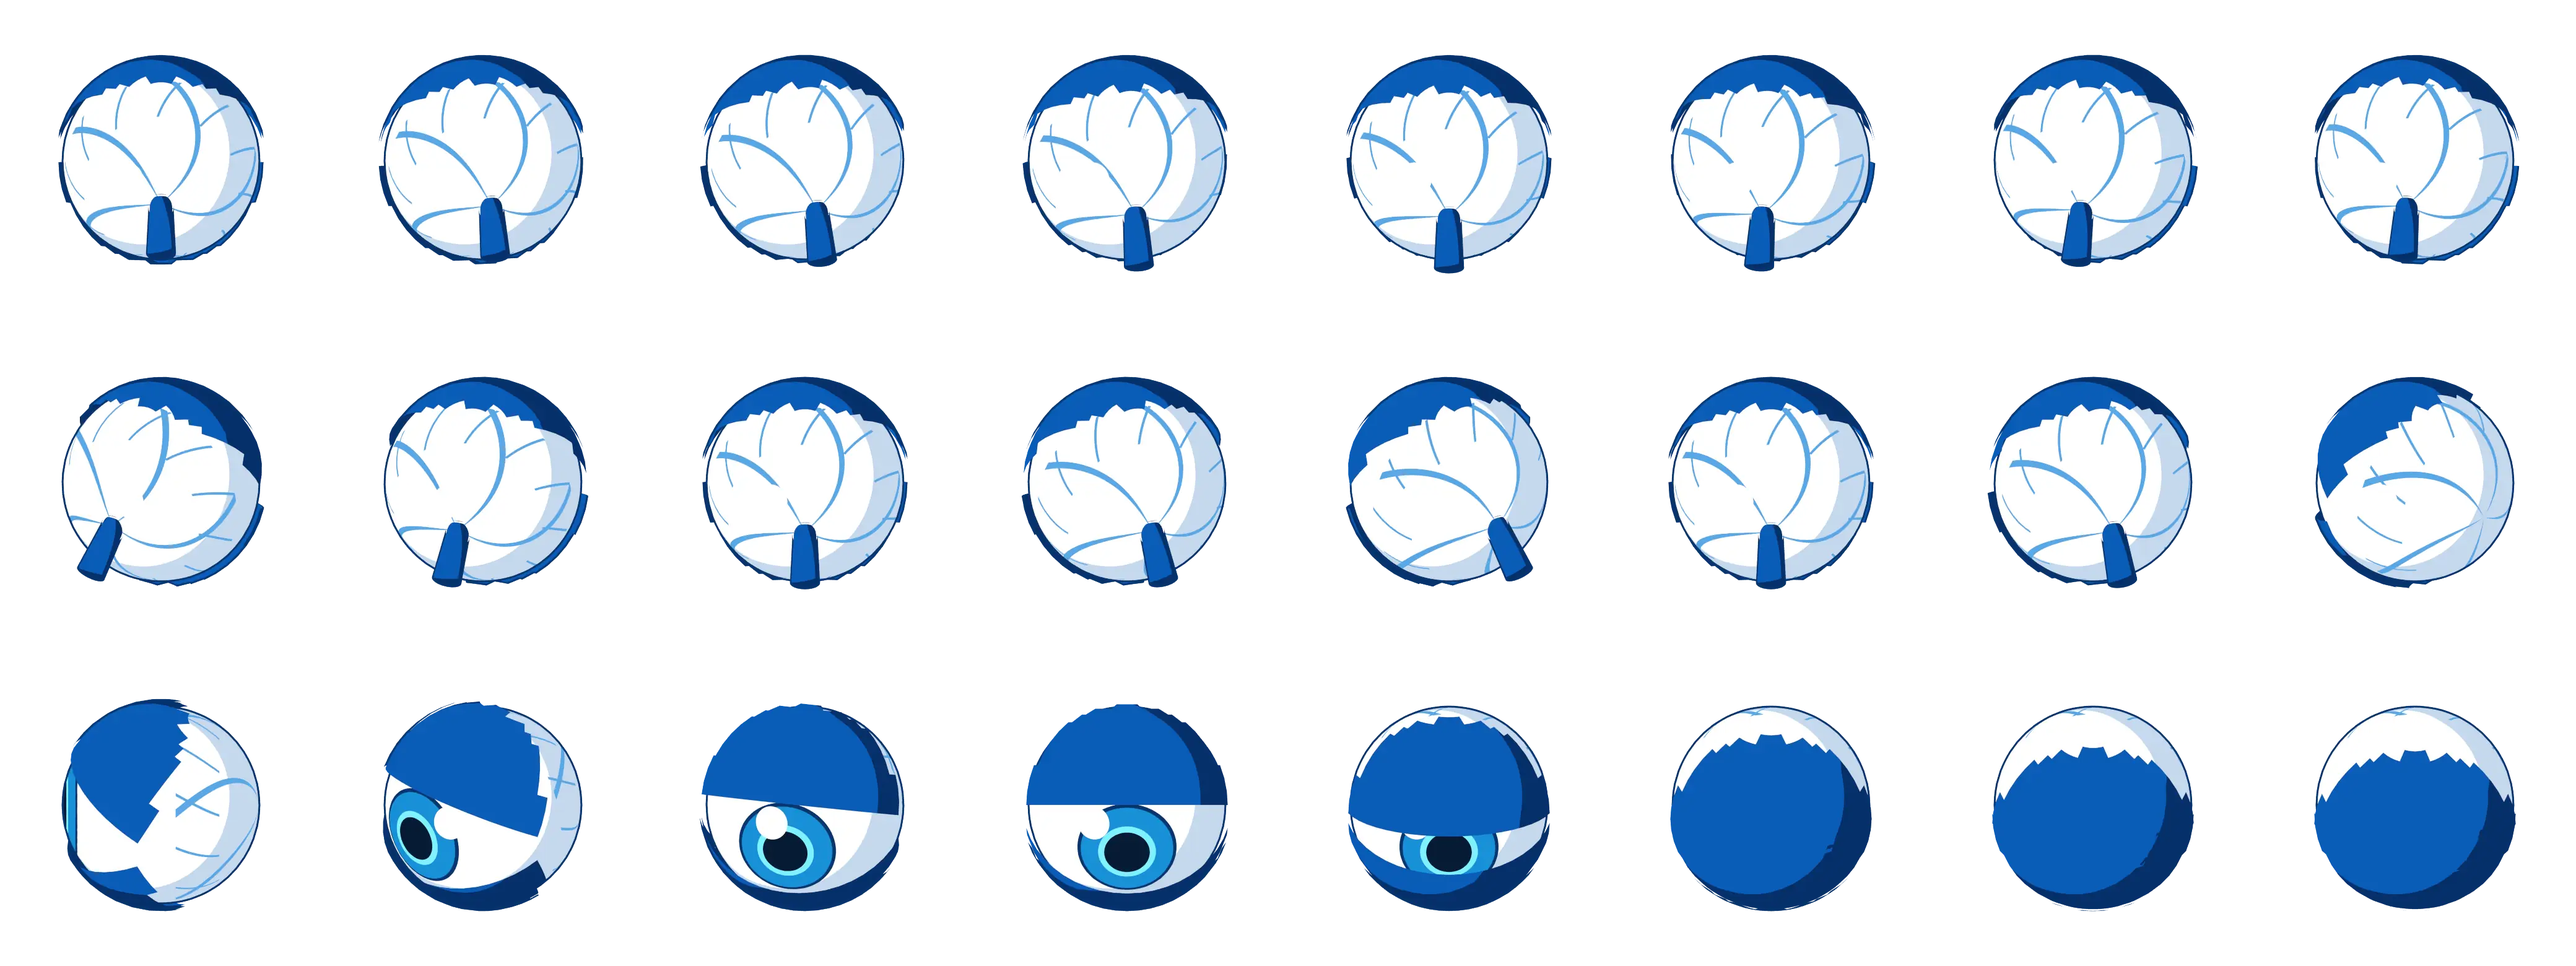
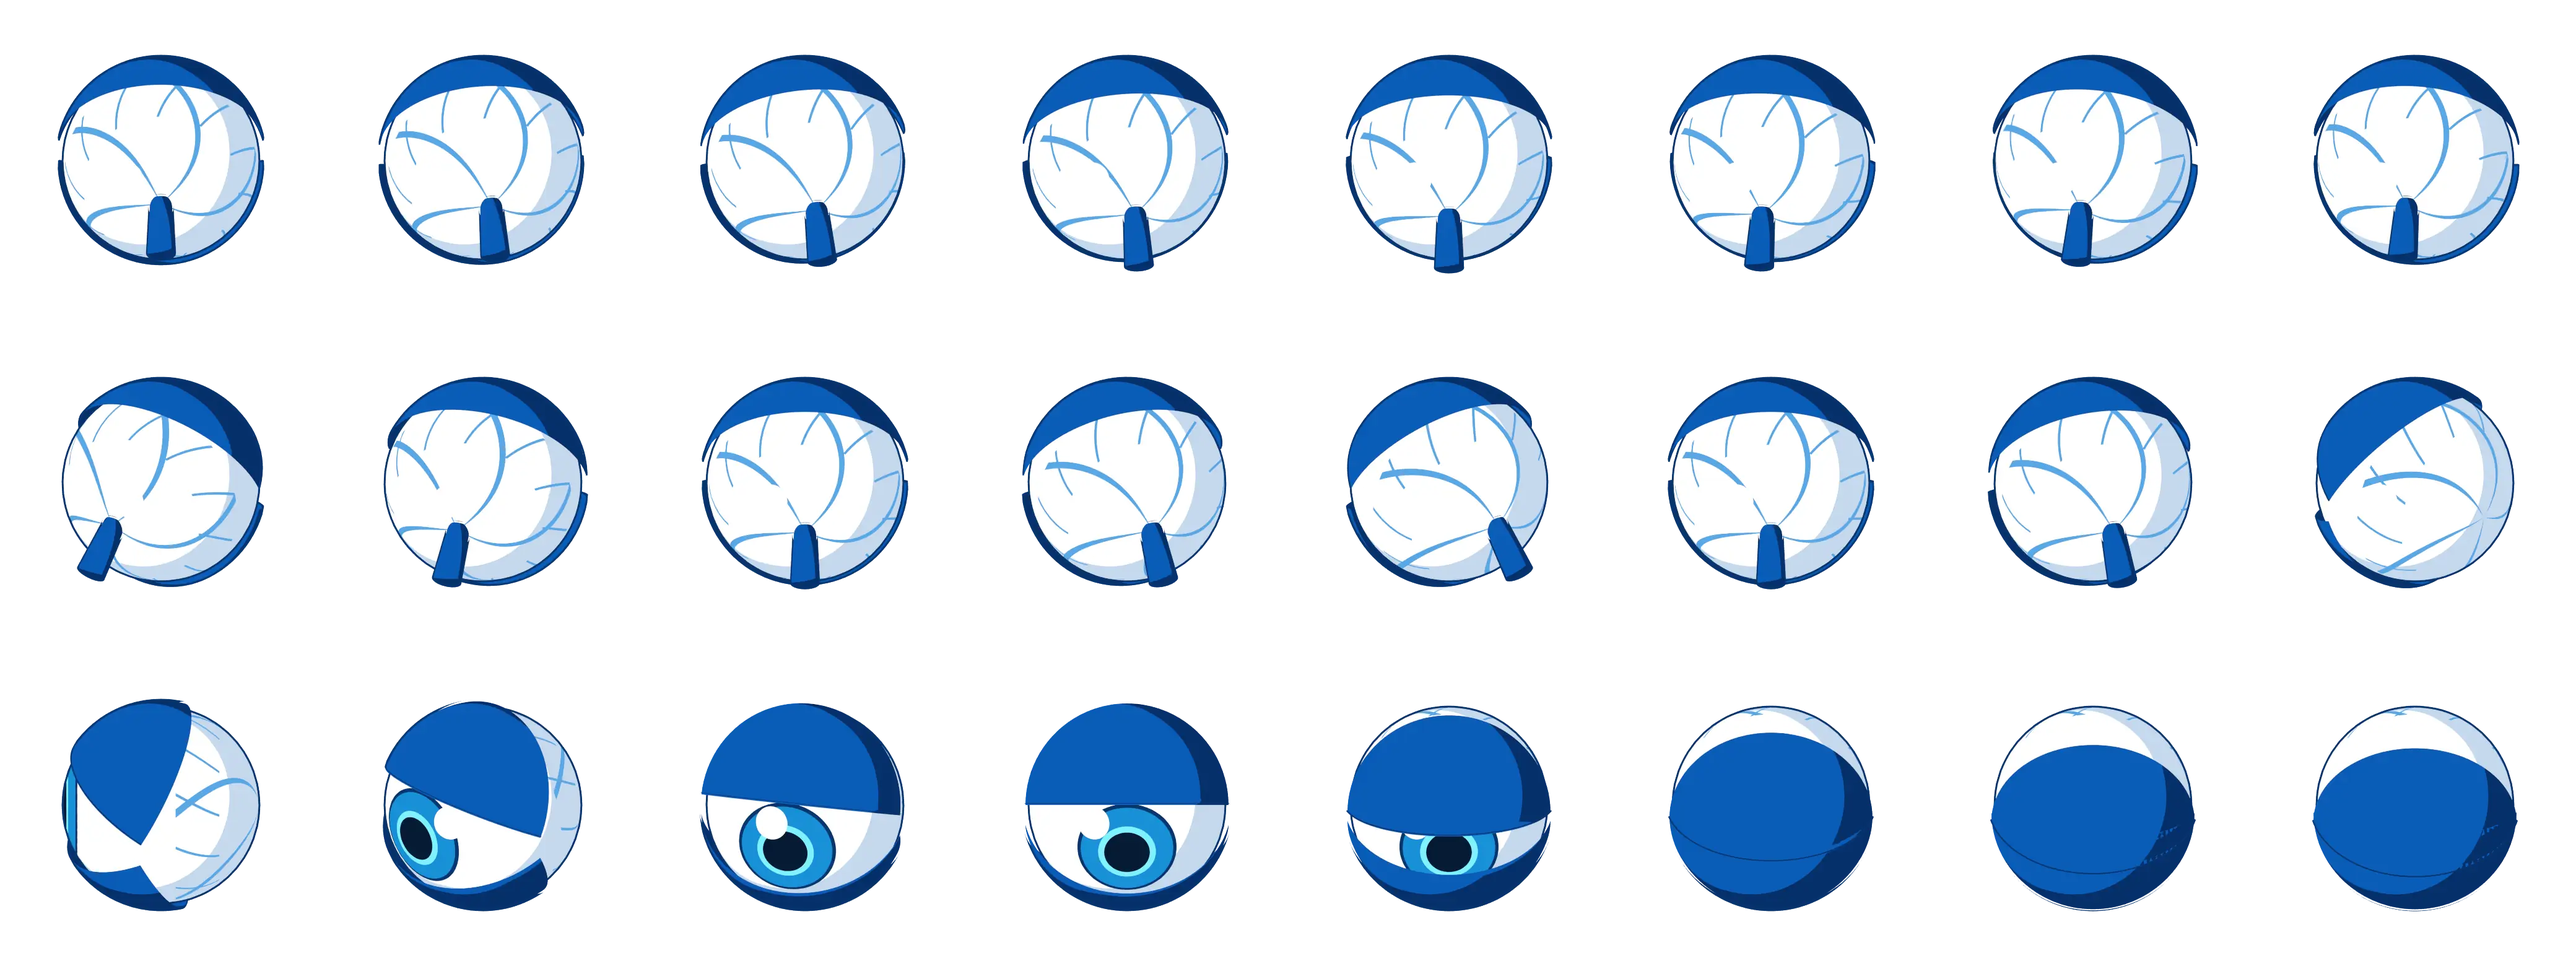
KITTY_RUN.EXE: fixes from the final review
The eye's lids are cut along clean planes, so seen from behind the ball keeps one smooth
lid arc; the ride's window is drawn in two-pixel slices with one frame along its outline,
stays over the road on a phone, and shows its window's first real paragraph; paw dust
fades before it reaches the camera and scales in whole pixels; pickup bursts stay within
the chip; shields take the OS's LCD ink; the result card's last line is LCD-sub sized;
phone titles end in an ellipsis; the glyphs' screen-reader labels follow the run.

diff --git a/js/run.js b/js/run.js
@@ -196,7 +196,7 @@ function blocks(t) {
 function hurt(t) {
   if (nowAt < safeTo || caughtAt) return;
   t.gone = nowAt;
-  if (active('shield')) { powers.shield = 0; safeTo = nowAt + SAFE; ring(1.6); spark('burst', U(x), dist, y + TALL / 2, 1.5); return; }   // the bubble takes it, and pops without a sound, like her bubbles
+  if (active('shield')) { powers.shield = 0; safeTo = nowAt + SAFE; ring(1.6); spark('burst', U(x), dist, y + TALL / 2, .9); return; }   // the bubble takes it, and pops without a sound, like her bubbles
   if (nowAt - hitAt < AGAIN) return caught();
   hitAt = nowAt; safeTo = nowAt + SAFE; cleanFrom = sec;
   spark('hit', U(t.lane), dist + .02, .7, 1.2);
@@ -252,7 +252,7 @@ const ring = (size) => fx.push({ at: nowAt, life: 420, size });
 
 // Pixel effects (pixelfx, built by _dev/run_fx in each OS's own colours): dust from her paws at every stride, a bigger puff
 // when she lands, a spark when something hits her, a burst for a power-up and for the shield. Their pixels are the
-// LCD's. Each sits on the road where it happened and falls behind as she runs on. None under reduced motion.
+// LCD's, scaled in whole pixels. Each sits on the road where it happened and fades as it falls behind. None under reduced motion.
 let FX = null;
 const fxSheets = {}, sparks = [];
 fetch('assets/run/fx.json').then((r) => r.json()).then((m) => { FX = m; }).catch(() => {});
@@ -271,7 +271,9 @@ function drawSparks(g, f, front) {
     const s = sparks[i], e = FX.effects[s.kind], n = Math.floor((nowAt - s.at) / 1000 * e.fps);
     if (n >= e.frames) { sparks.splice(i, 1); continue; }
     if ((s.kind === 'hit' || s.kind === 'burst') !== front) continue;
-    const [px, py, k] = f.at(s.u, Math.max(s.z - dist, f.stop)), unit = f.lane * k / 40 * s.size;   // one effect pixel, in canvas pixels
+    const r = s.z - dist, [px, py, k] = f.at(s.u, Math.max(r, f.stop)), unit = Math.max(1, Math.round(f.lane * k / 40 * s.size));   // one effect pixel: a whole number of canvas pixels
+    g.globalAlpha = clamp(1 + r / .12);   // gone a third of the way back to the camera
+    if (!g.globalAlpha) continue;
     g.drawImage(img, (n % e.cols) * e.w, e.y + Math.floor(n / e.cols) * e.h, e.w, e.h, px - e.pivot[0] * unit, py - s.h * f.lane * k - e.pivot[1] * unit, e.w * unit, e.h * unit);
   }
   g.restore();
@@ -357,7 +359,7 @@ function near0(t) {   // the song's note nearest this moment, so the pops play a
 }
 function power(p) {
   p.got = nowAt; tally.power++;
-  spark('burst', U(p.lane), p.z, p.h - .2, 1.1);
+  spark('burst', U(p.lane), p.z, p.h - .2, .6);   // within the chip's own size
   powers[p.kind] = nowAt + LAST[p.kind] * 1000;
   if (p.kind === 'ride') { tally.ride++; rideName = pick(WINDOWS); air = null; slideTo = 0; }
   if (p.kind === 'zoom') safeTo = Math.max(safeTo, powers.zoom + 600);
@@ -505,7 +507,7 @@ function kitty(g, f) {
     const s = f.lane * TALL * .78 * (calm ? 1 : 1 + .03 * Math.sin(nowAt / 150)), cy = py - y * f.lane - f.lane * TALL * .5, fade = Math.min(1, (powers.shield - nowAt) / 1500);
     g.save(); g.globalAlpha = .8 * fade;
     if (f.id === 'aero') g.drawImage(soapOnce(), px - s, cy - s, s * 2, s * 2);
-    else { const c = WORLDS[f.id].hands[0]; g.shadowColor = c[1]; g.shadowBlur = 12 * f.d; g.lineWidth = 3 * f.d; g.strokeStyle = c[1]; g.beginPath(); g.ellipse(px, cy, s * .9, s, 0, 0, TAU); g.stroke(); g.lineWidth = f.d; g.strokeStyle = c[0]; g.beginPath(); g.ellipse(px, cy, s * .82, s * .92, 0, -2.4, -1.4); g.stroke(); }
+    else if (lcd) { g.shadowColor = lcd.glow; g.shadowBlur = 12 * f.d; g.lineWidth = 3 * f.d; g.strokeStyle = lcd.fg; g.beginPath(); g.ellipse(px, cy, s * .9, s, 0, 0, TAU); g.stroke(); g.lineWidth = f.d; g.globalAlpha *= .6; g.beginPath(); g.ellipse(px, cy, s * .82, s * .92, 0, -2.4, -1.4); g.stroke(); }   // the LCD's own ink: Baroque's gold, Vaporwave's pink
     g.restore();
   }
   if (active('magnet')) {   // and the OS's own bubble wand, beside her
@@ -535,7 +537,9 @@ function paneArt(id) {
   else if (stops.length > 2) { const p = g.createLinearGradient(0, 0, 0, bar); stops.slice(0, 3).forEach((col, i) => p.addColorStop([0, .47, .5][i], col)); g.fillStyle = p; g.fillRect(0, 0, W, bar); }
   g.fillStyle = v('--bar-edge'); g.fillRect(0, bar - 2, W, 2);
   g.fillStyle = v('--sheet'); g.fillRect(12, bar + 8, W - 24, H - bar - 20);   // the page inside: that window's own heading and words
-  const win = document.querySelector(`[data-file="${rideName}"]`), head = $(win?.getAttribute('aria-labelledby'))?.textContent.trim() || '', words = (win?.querySelector('p')?.textContent || '').trim().split(/\s+/);
+  const win = document.querySelector(`[data-file="${rideName}"]`), head = $(win?.getAttribute('aria-labelledby'))?.textContent.trim() || '';
+  const para = [...(win?.querySelectorAll('p') || [])].find((el) => !el.hidden && !el.classList.contains('meta') && el.textContent.trim());   // its first real paragraph
+  const words = (para?.textContent || '').replace(/[^.]*JavaScript[^.]*\.?/g, '').trim().split(/\s+/).filter(Boolean);   // not the no-JavaScript note
   g.textBaseline = 'top'; g.textAlign = 'left';
   g.fillStyle = v('--heading'); g.font = `700 38px ${v('--display')}`; g.fillText(head, 30, bar + 24, W - 60);
   g.fillStyle = v('--ink-2'); g.font = `22px ${v('--body')}`;
@@ -549,15 +553,16 @@ function paneArt(id) {
   return c;
 }
 function carpet(g, f, h, slide, alpha) {   // tilted up toward the far end, as a carpet lifts, so its face reads
-  const img = paneArt(f.id), u0 = U(x) - .66, u1 = U(x) + .66, far = .3 + slide, near = -.05 + slide, hf = h + .7, hn = h - .4;
-  const N = Math.max(24, Math.min(96, Math.round(f.lane * 1.4 / f.d / 3)));   // a slice every few pixels, so the sides run straight
+  const mid = clamp(U(x), .66, 3.34), img = paneArt(f.id), u0 = mid - .66, u1 = mid + .66, far = .3 + slide, near = -.05 + slide, hf = h + .7, hn = h - .4;   // kept over the road
   g.save(); g.globalAlpha = alpha;
   if (!f.lite) {   // a soft shadow on the road below
     const [sx, sy, sk] = f.at(U(x), .08 + slide), rx = f.lane * .9 * sk, sh = g.createRadialGradient(sx, sy, 0, sx, sy, rx);
     sh.addColorStop(0, 'rgba(0,0,0,.22)'); sh.addColorStop(1, 'rgba(0,0,0,0)');
     g.save(); g.translate(sx, sy); g.scale(1, .3); g.translate(-sx, -sy); g.fillStyle = sh; g.fillRect(sx - rx, sy - rx, rx * 2, rx * 2); g.restore();
   }
+  let N = 1;
   const edge = (u, i) => { const r = far + (near - far) * i / N, p = f.at(u, r); return [p[0], p[1] - (hf + (hn - hf) * i / N) * f.lane * p[2]]; };
+  N = clamp(Math.ceil((edge(u0, 1)[1] - edge(u0, 0)[1]) / (2 * f.d)), 24, 240);   // a slice every two pixels, so the words don't shear
   g.save(); g.beginPath();   // its outline, so the slices below meet in clean edges
   for (let i = 0; i <= N; i++) g.lineTo(...edge(u0, i));
   for (let i = N; i >= 0; i--) g.lineTo(...edge(u1, i));
@@ -567,6 +572,8 @@ function carpet(g, f, h, slide, alpha) {   // tilted up toward the far end, as a
     g.drawImage(img, 0, img.height * i / N, img.width, img.height / N, bx, ay, cx - bx, by - ay + 1);
   }
   g.restore();
+  g.beginPath(); for (let i = 0; i <= N; i++) g.lineTo(...edge(u0, i)); for (let i = N; i >= 0; i--) g.lineTo(...edge(u1, i)); g.closePath();   // its frame, drawn once along the outline
+  g.lineWidth = Math.max(1, 1.5 * f.d); g.strokeStyle = getComputedStyle(document.documentElement).getPropertyValue('--putty-4'); g.stroke();
   g.restore();
 }
 

diff --git a/index.html b/index.html
@@ -18,8 +18,8 @@
 <link rel="apple-touch-icon" href="assets/icons/eye-180.png">
 <link rel="preload" href="assets/fonts/baloo-da-2-var-latin.woff2" as="font" type="font/woff2" crossorigin>
 <link rel="preload" href="assets/fonts/hind-siliguri-400-latin.woff2" as="font" type="font/woff2" crossorigin>
-<script type="importmap">{"imports": {"./js/analytics.js": "./js/analytics.js?v=e2256c35", "./js/audio.js": "./js/audio.js?v=c8f3778f", "./js/beats.js": "./js/beats.js?v=4bc3188d", "./js/beatworlds.js": "./js/beatworlds.js?v=e89e5c90", "./js/bringback.js": "./js/bringback.js?v=81b45ed1", "./js/bubblepop.js": "./js/bubblepop.js?v=1f943c72", "./js/bubbles.js": "./js/bubbles.js?v=5b5caee5", "./js/clock.js": "./js/clock.js?v=0856070b", "./js/fx.js": "./js/fx.js?v=f9c8771a", "./js/kitty.js": "./js/kitty.js?v=d1563961", "./js/main.js": "./js/main.js?v=ee03c92a", "./js/observe.js": "./js/observe.js?v=daaa1275", "./js/paint.js": "./js/paint.js?v=0e55c193", "./js/panopticon.js": "./js/panopticon.js?v=a65b4065", "./js/run.js": "./js/run.js?v=2472e97c", "./js/stats.js": "./js/stats.js?v=1988723d", "./js/themes.js": "./js/themes.js?v=15cefb94", "./js/tour.js": "./js/tour.js?v=14ec0b47"}}</script>
-<link rel="stylesheet" href="css/site.css?v=38b65abf">
+<script type="importmap">{"imports": {"./js/analytics.js": "./js/analytics.js?v=e2256c35", "./js/audio.js": "./js/audio.js?v=c8f3778f", "./js/beats.js": "./js/beats.js?v=6be89cb7", "./js/beatworlds.js": "./js/beatworlds.js?v=e89e5c90", "./js/bringback.js": "./js/bringback.js?v=81b45ed1", "./js/bubblepop.js": "./js/bubblepop.js?v=1f943c72", "./js/bubbles.js": "./js/bubbles.js?v=5b5caee5", "./js/clock.js": "./js/clock.js?v=0856070b", "./js/fx.js": "./js/fx.js?v=f9c8771a", "./js/kitty.js": "./js/kitty.js?v=d1563961", "./js/main.js": "./js/main.js?v=ee03c92a", "./js/observe.js": "./js/observe.js?v=daaa1275", "./js/paint.js": "./js/paint.js?v=0e55c193", "./js/panopticon.js": "./js/panopticon.js?v=a65b4065", "./js/run.js": "./js/run.js?v=135bfa60", "./js/stats.js": "./js/stats.js?v=1988723d", "./js/themes.js": "./js/themes.js?v=15cefb94", "./js/tour.js": "./js/tour.js?v=14ec0b47"}}</script>
+<link rel="stylesheet" href="css/site.css?v=a7e0e856">
 <script>
   // Decide before first paint, so the boot screen never flashes for returning visitors.
   (function () {

diff --git a/css/site.css b/css/site.css
@@ -225,6 +225,7 @@ html, body { transition: none; }
 .mp__full svg { filter: drop-shadow(0 0 3px var(--lcd-glow)); }
 .is-beat .mp__run { display: none; }   /* KITTY_RUN.EXE starts from full screen only */
 .arcade .mp__title { text-overflow: ellipsis; }
+.arcade .mp__title span { display: inline; padding-left: 0; animation: none; }   /* the ticker's span would stop the ellipsis */
 .arcade:has(#mp-run[aria-pressed=true]) #mp-time, .arcade:has(#mp-run[aria-pressed=true]) .mp__screen::after { display: none; }   /* on the run the top bar shows the song's progress; no sheen over the shut lids */
 .arcade .mp__result :is(.pill, .gel) { min-height: 44px; font-size: 16px; }
 .mp__full[aria-pressed=true] { color: #ffe14d; }
@@ -248,6 +249,7 @@ html, body { transition: none; }
 .run__goals svg { flex: none; width: 13px; height: 13px; color: #ffe14d; }
 .run__goals .is-off { opacity: .22; }
 .run__goals .is-done { color: var(--lcd-fg); }
+.mp__result .run__next, .arcade .mp__result .run__next { color: var(--lcd-sub); font-size: 16px; }
 /* Full screen: the player's screen leaves its window and fills the display, above the taskbar. The board tilts back into a road. */
 .arcade { position: fixed; inset: 0; z-index: 9500; }
 .arcade .mp__screen { position: absolute; inset: 0; padding: 0; border: 0; border-radius: 0; box-shadow: none; -webkit-user-select: none; user-select: none; }

diff --git a/js/beats.js b/js/beats.js
@@ -562,7 +562,8 @@ function unrace(again) {
 kit.addEventListener('click', () => (running ? unrace(true) : race()));
 // On the run the arrow keys and W steer her, so the glyphs say what they do there.
 const TITLES = { 'mp-back': ['Previous level (left arrow)', 'Previous song'], 'mp-skip': ['Next level (right arrow)', 'Next song'], 'mp-watch': ['Just watch (W)', 'Just watch the song'] };
-function retitle(run) { for (const [id, t] of Object.entries(TITLES)) $(id).title = t[+run]; }
+const ARIA = {};
+function retitle(run) { for (const [id, t] of Object.entries(TITLES)) { const el = $(id); ARIA[id] ??= el.getAttribute('aria-label'); el.title = t[+run]; el.setAttribute('aria-label', run ? t[1] : ARIA[id]); } }
 
 /* ---------- Coming and going ---------- */
 // The screen grows or shrinks in one move. On a desktop the window's bottom edge stays put and its height never jumps:

diff --git a/_dev/kitty/blender/eyeball.py b/_dev/kitty/blender/eyeball.py
@@ -88,8 +88,10 @@ def cap(name, sign, mats):
     """A lid: a shell a little bigger than the ball over its front, above (sign 1) or below (-1) its middle. Only the
     front: from behind, the back of the ball shows bare, as a real eye's does."""
     bm = bmesh.new()
-    bmesh.ops.create_uvsphere(bm, u_segments=48, v_segments=24, radius=LID)
-    bmesh.ops.delete(bm, geom=[v for v in bm.verts if v.co.z * sign < -1e-4 or v.co.x < 0.12], context='VERTS')   # only over its front: from behind, a thin rim
+    bmesh.ops.create_uvsphere(bm, u_segments=96, v_segments=48, radius=LID)
+    for co, no in (((0, 0, 0), (0, 0, -sign)), ((0.12, 0, 0), (-1, 0, 0))):   # cut along clean planes, so its edges are smooth arcs
+        geom = bm.verts[:] + bm.edges[:] + bm.faces[:]
+        bmesh.ops.bisect_plane(bm, geom=geom, plane_co=co, plane_no=no, clear_outer=True)
     return mesh(name, bm, mats)
 
 

diff --git a/DESIGN.md b/DESIGN.md
@@ -107,7 +107,7 @@ Bubbles score 10 each, in that OS's own bubble style (`spritesFor` in `js/fx.js`
 
 The little effects are pixel art, the LCD's language (pixelfx, built in each OS's own colours by `_dev/run_fx/build.py` into `assets/run/fx-<os>.png`): dust from her paws at every stride, a bigger puff when she lands, a spark when something hits her, and a burst for a power-up and the shield popping. Each stays on the road where it happened and falls behind as she runs on. Her moves have sounds of their own, one set per OS (lane, jump, duck, power-up, zoomies, stumble, caught), composed and bounced in SoundCraft with that OS's instrument (glass bells, a detuned tape synth, a harpsichord, a chip square, a soft pluck in a Bhairav-like scale, the avenue's square and saw, with a cab's horn and the subway doors' two notes) and sent through purpl (`_dev/run_sfx.py`, `assets/run/sfx-<os>.mp3`), played through the site's sound bus, so mute holds.
 
-Power-ups come round in rotation every 11 to 17 seconds, each a chip of that OS's LCD with its glyph lit on it, the same glyph the HUD shows while it lasts; its name rises over her, like the play-along's PERFECT: bubble shield (one hit or 20 s; in Aero one of the site's bubbles, elsewhere a ring of that world's light; it pops without a sound), bubble wand (that OS's wand cursor; bubbles drift to her for 10 s), window ride (8 s: one of her site's windows, in that OS's chrome, swoops in from behind and lies under her like a carpet, tilted toward the camera and laid in the road's own perspective with its shadow on the road; she sits on it above every wall, with bubbles in the sky), pounce (every jump clears walls for 10 s), bubbles x2 (15 s) and zoomies (5 s, faster, nothing can hit her, the eye falls back).
+Power-ups come round in rotation every 11 to 17 seconds, each a chip of that OS's LCD with its glyph lit on it, the same glyph the HUD shows while it lasts; its name rises over her, like the play-along's PERFECT: bubble shield (one hit or 20 s; in Aero one of the site's bubbles, elsewhere a ring in that OS's LCD ink; it pops without a sound), bubble wand (that OS's wand cursor; bubbles drift to her for 10 s), window ride (8 s: one of her site's windows, in that OS's chrome, swoops in from behind and lies under her like a carpet, tilted toward the camera and laid in the road's own perspective with its shadow on the road; she sits on it above every wall, with bubbles in the sky), pounce (every jump clears walls for 10 s), bubbles x2 (15 s) and zoomies (5 s, faster, nothing can hit her, the eye falls back).
 
 Across runs: the best score, and goals three at a time, each for one run (pop, run, jump over, slide under, pick up, run clean, ride, score). Finishing a set raises the multiplier every run starts with, from the next run on. Kept in this browser as `tahsin.run`. Runs go to OBSERVE's log as `game_score` with `game: kitty_run`. Keys are the arrows or W A S D (space jumps too); on a touch screen or with a mouse, swipe. Under reduced motion she bolts at once, the scenery holds, nothing shakes, flashes or streaks, and the lids close in one step.
 
